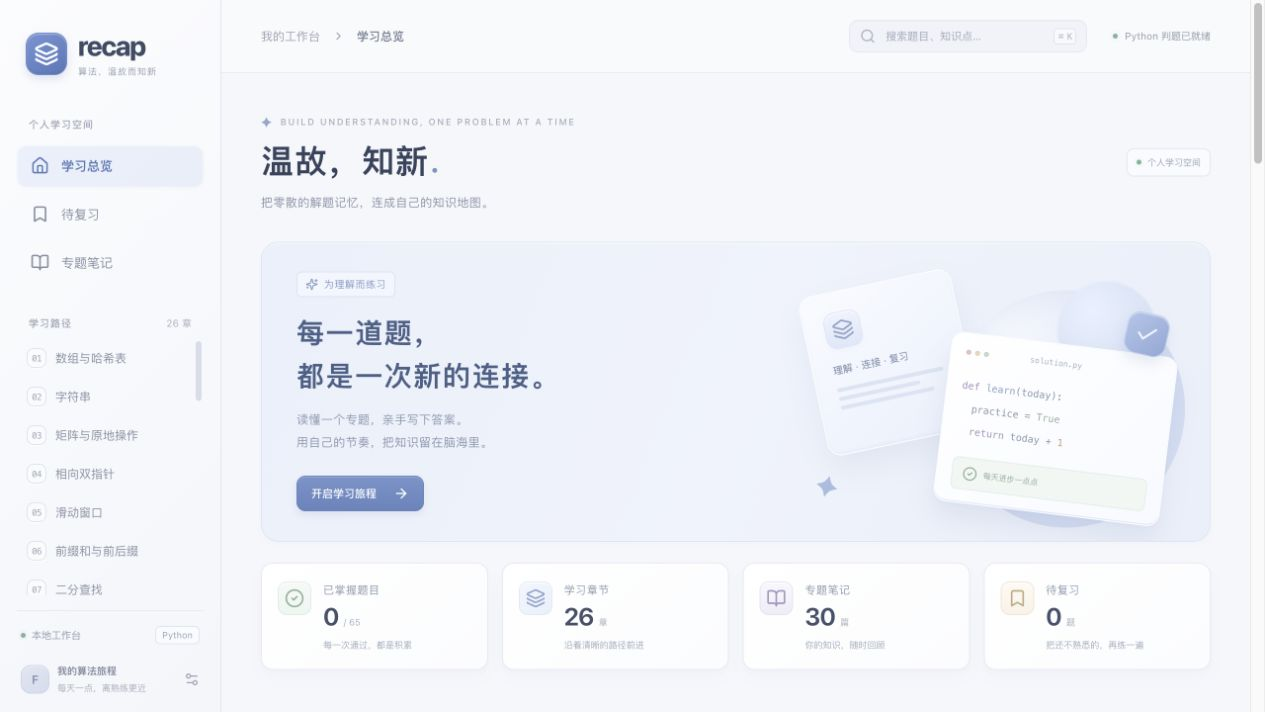
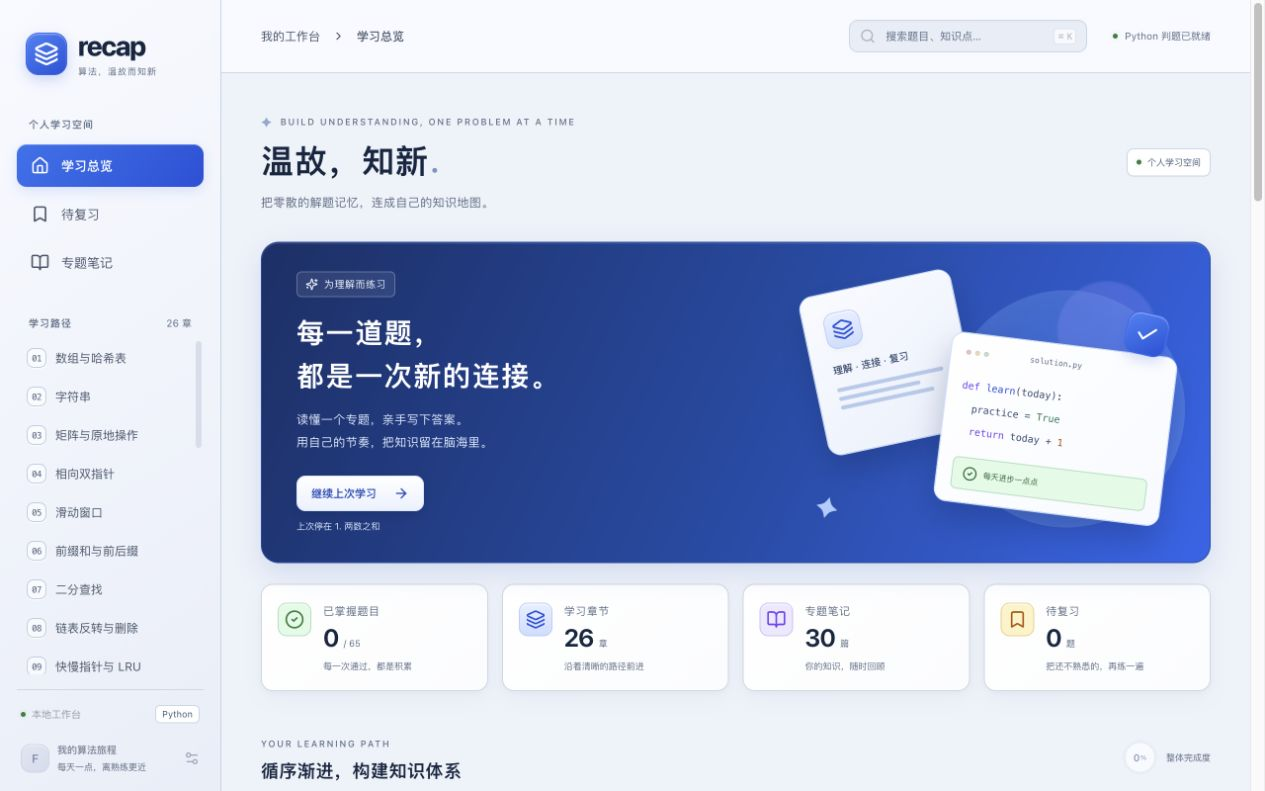
style: strengthen blue palette and improve text contrast

diff --git a/frontend/src/palette.css b/frontend/src/palette.css
@@ -1,0 +1,176 @@
+/* Vivid iOS palette: strong ink, distinct surfaces and a saturated blue anchor. */
+:root {
+  color: #25354b;
+  background: #edf2f9;
+  --blue: #2563eb;
+  --blue-dark: #1d4ed8;
+  --muted: #64748b;
+  --border: #cdd7e5;
+  --shadow: 0 2px 5px #18335708, 0 8px 20px #18335709;
+}
+.sidebar {
+  background: linear-gradient(145deg, #f8faff, #e8eef8);
+  border-right-color: #c7d3e5;
+}
+.brand-mark, .floating-check {
+  background: linear-gradient(145deg, #3b82f6, #1d4ed8);
+  border-color: #2563eb;
+  color: #fff;
+  box-shadow: 0 5px 13px #1d4ed833, inset 0 1px 1px #ffffff70;
+}
+.brand-name, .page-heading h1, .section-heading h2, .chapter-heading h1,
+.chapter-card h3, .problem-heading h1, .note-article-heading h2,
+.solution-content h2, .history-content h2, .stat-value, .empty h3 {
+  color: #142641;
+}
+.primary-nav > button, .chapter-nav > button, .note-toc button,
+.workspace-tabs > button, .result-tabs > button, .filter-tabs button,
+.icon-button, .editor-tools .icon-button, .workspace-header .back-link,
+.workspace-current, .topbar-breadcrumb, .topbar-breadcrumb strong {
+  color: #475569;
+}
+.primary-nav > button.active {
+  background: linear-gradient(130deg, #2870ee, #1d4ed8);
+  color: #fff;
+  box-shadow: 0 4px 12px #2563eb26, inset 0 1px #ffffff35;
+}
+.primary-nav > button.active b { background: #ffffff26; color: #fff; border-color: #ffffff40; }
+.primary-nav > button:hover:not(.active), .chapter-nav > button:hover,
+.note-toc button:hover, .icon-button:hover { background: #dce8fb; color: #1d4ed8; }
+.chapter-nav > button.active, .note-toc button.active {
+  background: #dbeafe;
+  color: #1746b4;
+  box-shadow: inset 3px 0 #2563eb;
+}
+.chapter-dot { color: #52647f; border-color: #bfcee3; background: #fff9; }
+.chapter-dot.done, .status-dot { background: #15803d; }
+.brand-name > span, .sidebar-label, .chapter-label > span, .user-info > span,
+.page-heading p, .eyebrow, .chapter-number, .chapter-card > p,
+.chapter-card-bottom, .stat-label, .stat-detail, .stat-value small,
+.topbar-python, .path-summary, .note-source, .chapter-source,
+.problem-footnote, .input-help, .editor-filename, .language-select,
+.editor-status, .editor-status > button, .local-test-label, .result-note,
+.case-value > span, .example-values > span, .custom-input > p,
+.input-caption, .solution-reminder, .submission-summary small,
+.reading-links > p, .reading-links summary, .reading-links summary > span,
+.empty p, .page-footer, .result-placeholder > p, .execution-heading > span {
+  color: #5a6c84;
+}
+.topbar, .workspace-header { background: #f8faff; border-bottom-color: #cdd7e5; }
+.search-box { background: #e6edf7; border-color: #cbd7e8; }
+.search-box input { color: #263d5d; }
+.search-box input::placeholder { color: #5f7089; }
+.search-box:focus-within { border-color: #2563eb; box-shadow: 0 0 0 3px #2563eb18; }
+.quiet-chip, .keycap { color: #3e5473; background: #fff; border-color: #c9d6e8; }
+.welcome-card {
+  background: linear-gradient(115deg, #142f67 0%, #174aa8 55%, #2563eb 100%);
+  border-color: #1746a2;
+  box-shadow: 0 10px 28px #174aa826, inset 0 1px #ffffff24;
+}
+.welcome-copy h2 { color: #fff; font-weight: 650; }
+.welcome-copy p, .resume-caption { color: #dceaff; }
+.welcome-copy .pill { background: #ffffff14; border-color: #ffffff40; color: #eff6ff; }
+.button.primary {
+  background: linear-gradient(#2f78f5, #1d4ed8);
+  color: #fff;
+  border-color: #1d4ed8;
+  box-shadow: 0 4px 10px #2563eb30, inset 0 1px #ffffff40;
+}
+.button.primary:hover { background: linear-gradient(#2563eb, #163fae); box-shadow: 0 5px 14px #1d4ed840; }
+.welcome-copy .button.primary {
+  background: linear-gradient(#fff, #eaf1ff);
+  color: #1746b4;
+  border-color: #d7e6ff;
+  box-shadow: 0 4px 12px #071d4938, inset 0 1px white;
+  font-weight: 650;
+}
+.welcome-copy .button.primary:hover { background: #fff; }
+.button.secondary { color: #334b6d; border-color: #b9c9df; background: linear-gradient(#fff, #edf3fc); }
+.button.secondary:hover { background: #dce8fb; border-color: #8eabd5; }
+button:disabled { opacity: .6; }
+.stat-card:disabled { opacity: 1; }
+.stat-card, .chapter-card, .panel, .workspace-panel { border-color: #ccd7e6; }
+.chapter-card:hover { border-color: #5e94ef; box-shadow: 0 6px 20px #2563eb15; }
+.chapter-card-bottom .progress-label { color: #52647e; background: #e8eef7; }
+.chapter-card-bottom .progress-label.started { color: #166534; background: #dcfce7; }
+.filter-tabs { border-bottom-color: #cbd5e1; }
+.filter-tabs button.active { color: #1746b4; background: #dbeafe; box-shadow: inset 0 1px white, 0 1px 3px #1746b418; }
+.thin-progress > i { background: #2563eb; }
+.stat-icon, .icon-tile, .mini-icon { color: #1d4ed8; background: linear-gradient(#e6efff, #cdddff); border-color: #b7cdf5; }
+.stat-icon.green, .icon-tile.green { color: #15803d; background: #dcfce7; border-color: #a9dfbd; }
+.stat-icon.purple, .icon-tile.purple { color: #7c3aed; background: #ede9fe; border-color: #d0bff4; }
+.stat-icon.orange, .icon-tile.orange { color: #b45309; background: #fef3c7; border-color: #eed08a; }
+.icon-tile.pink { color: #be185d; background: #fce7f3; border-color: #edb4d3; }
+.icon-tile.teal { color: #0f766e; background: #ccfbf1; border-color: #91d5ca; }
+.floating-note, .floating-code { border-color: #c9defc; box-shadow: 0 16px 30px #061e4a40, inset 0 1px white; }
+.floating-note strong, .floating-code code { color: #334b70; }
+.code-top > b { color: #5d6d87; }
+.mini-lines > i { background: #b2c9eb; }
+.purple-text { color: #7c3aed; }
+.blue-text { color: #1d4ed8; }
+.green-text { color: #047857; }
+.orange-text { color: #b45309; }
+.code-success { color: #166534; background: #dcfce7; border-color: #a9dfbd; }
+.art-star { color: #a9cdff; }
+.orb-one { background: #60a5fa40; }
+.orb-two { background: #818cf84d; }
+.chapter-banner, .chapter-tip { border-color: #bed1ee; background: #e4edfc; }
+.chapter-tip p, .problem-title, .problem-title > span { color: #334766; }
+.table-head { color: #52647e; background: #eaf0f9; border-color: #d1dceb; }
+.problem-row { border-color: #dfe6f0; }
+.tag { color: #38557f; background: #e7eef9; border-color: #cddbef; }
+.difficulty.easy { color: #166534; background: #dcfce7; }
+.difficulty.medium { color: #92400e; background: #fef3c7; }
+.difficulty.hard { color: #b91c1c; background: #fee2e2; }
+.accepted-label { color: #15803d !important; }
+.failed-label, .inline-error { color: #b91c1c; }
+.problem-status.accepted, .submission-icon.accepted { color: #15803d; }
+.review-button.is-marked { color: #92400e; background: #fef3c7; border-color: #e7c66f; }
+.markdown, .problem-description > .markdown, .constraints .markdown { color: #334155; }
+.markdown h1, .markdown h2, .markdown h3, .markdown h4, .markdown strong { color: #172d4b; }
+.markdown a, .reading-link-row > a { color: #1d4ed8; }
+.markdown blockquote { color: #345177; background: #eaf2ff; border-color: #3b82f6; }
+.markdown code { color: #264873; background: #e7eef9; border-color: #cedbf0; }
+.markdown pre, .example-values, .case-value > pre { background: #f0f4fa; border-color: #d2ddec; }
+.markdown pre code, .example-values > pre, .case-value > pre { color: #253b5c; }
+.markdown th { color: #263e62; background: #e4ecf8; }
+.markdown th, .markdown td { border-color: #cad7e8; }
+.note-toc, .note-article-heading, .reading-links, .reading-links > details { border-color: #cdd9e9; }
+.reading-link-row > .reading-only { color: #52647e; background: #e6edf7; }
+.reading-link-row > .local-exercise { color: #166534; background: #dcfce7; }
+.workspace-tabs, .editor-toolbar, .result-tabs { background: linear-gradient(#f8faff, #eaf0f9); border-color: #cad7e8; }
+.workspace-tabs > button.active, .result-tabs > button.active { color: #1d4ed8; font-weight: 650; }
+.workspace-tabs > button.active:after, .result-tabs > button.active:after { background: #2563eb; }
+.editor-tools .icon-button:hover { background: #dbeafe; color: #1d4ed8; }
+.python-icon { color: #a16207; }
+.editor-status, .editor-status > button { color: #52647e; }
+.editor-status { background: #f4f7fc; border-color: #d5e0ef; }
+.editor-status > button.save-failed, .judge-warning { color: #92400e; }
+.result-placeholder > strong, .toggle-label { color: #334b6b; }
+.terminal-icon { color: #2563eb; background: #e3edff; border-color: #bfd3f4; }
+.result-count.success { color: #166534; background: #dcfce7; }
+.case-tabs > button { color: #4b6080; background: #eaf0f9; border-color: #d4dfee; }
+.case-tabs > button.active { color: #1746b4; background: #dbeafe; border-color: #93b4ed; }
+.case-tabs > button.pass > span { background: #15803d; }
+.case-tabs > button.active.fail { color: #b91c1c; background: #fee2e2; border-color: #efaaaa; }
+.case-value > pre.value-error { color: #b91c1c; background: #fff1f2; border-color: #efbfc4; }
+.custom-input > textarea { color: #263e62; background: #f0f4fa; border-color: #b9cce6; }
+.custom-input > textarea:focus { border-color: #2563eb; outline-color: #2563eb; }
+.split-handle:hover, .split-handle:focus-visible { background: #c5d9fa; }
+.split-handle > i { background: #8499b8; }
+.chapter-dot.done { color: #fff; border-color: #15803d; }
+.chapter-heading p, .chapter-overview, .progress-ring > span,
+.progress-ring small, .content-tabs > button, .submission-score,
+.small-label, .loading-block, .app-loading { color: #52647e; }
+.chapter-tip strong { color: #1d4ed8; }
+.content-tabs { border-color: #cbd7e8; }
+.content-tabs > button.active { color: #1d4ed8; font-weight: 650; }
+.content-tabs > button.active:after { background: #2563eb; }
+.content-tabs > button > span { color: #38557f; background: #e1eafa; }
+.review-button { color: #405779; }
+.editor-status .status-dot { background: #15803d; }
+.result-count { color: #b91c1c; background: #fee2e2; }
+.result-count.success { color: #166534; background: #dcfce7; }
+.submission-summary strong, .submission-icon { color: #b91c1c; }
+.error-box { color: #991b1b; background: #fff1f2; border-color: #efb6bf; }
+.inline-error { border-color: #efb6bf; }

diff --git a/frontend/src/CodeEditor.tsx b/frontend/src/CodeEditor.tsx
@@ -9,19 +9,19 @@ monaco.editor.defineTheme("recap-light", {
   base: "vs",
   inherit: true,
   rules: [
-    { token: "comment", foreground: "9a9eb0", fontStyle: "italic" },
-    { token: "keyword", foreground: "8c58ad" },
-    { token: "string", foreground: "4d8b77" },
-    { token: "number", foreground: "b57845" },
+    { token: "comment", foreground: "62748c", fontStyle: "italic" },
+    { token: "keyword", foreground: "7c3aed" },
+    { token: "string", foreground: "047857" },
+    { token: "number", foreground: "b45309" },
   ],
   colors: {
     "editor.background": "#ffffff",
-    "editor.foreground": "#374159",
-    "editorLineNumber.foreground": "#bbc2d2",
-    "editorLineNumber.activeForeground": "#6b7794",
-    "editor.lineHighlightBackground": "#f5f7fc",
-    "editor.selectionBackground": "#dce6fb",
-    "editorIndentGuide.background1": "#edf0f6",
+    "editor.foreground": "#243654",
+    "editorLineNumber.foreground": "#788ba8",
+    "editorLineNumber.activeForeground": "#1d4ed8",
+    "editor.lineHighlightBackground": "#edf3ff",
+    "editor.selectionBackground": "#c7dcff",
+    "editorIndentGuide.background1": "#d6e1f2",
   },
 });
 export default function CodeEditor({

diff --git a/frontend/src/main.tsx b/frontend/src/main.tsx
@@ -2,6 +2,7 @@ import React from "react";
 import ReactDOM from "react-dom/client";
 import App from "./App";
 import "./style.css";
+import "./palette.css";
 import "katex/dist/katex.min.css";
 ReactDOM.createRoot(document.getElementById("root")!).render(
   <React.StrictMode>

diff --git a/docs/VERIFICATION.md b/docs/VERIFICATION.md
@@ -62,3 +62,7 @@ npm --prefix frontend audit --omit=dev
 - 停止后立即重启、启动失败清理及端口占用处理。
 
 项目定位为个人本机练习；“通过”表示通过项目自建测试，不是 LeetCode 官方完整测试。容器隔离与资源限制已实测，但本项目没有多人鉴权与公开服务运维设计。
+
+## 配色更新（2026-10-19）
+
+采用深蓝主视觉、饱和蓝色交互、深色正文与明确的成功/失败色；保留浅色卡片和拟物阴影。已检查桌面总览、窄屏总览、分屏编辑器及真实提交成功状态，构建通过。截图已更新。样式和 Monaco 颜色独立维护在 `frontend/src/palette.css` 与编辑器主题中。

diff --git a/README.md b/README.md
@@ -4,7 +4,7 @@
 
 ![学习总览](docs/screenshots/overview.jpg)
 
-做题页采用左右分屏：左侧题目、笔记、题解与提交记录，右侧 Python 编辑器和测试结果。界面采用浅色 iOS 风格与柔和拟物细节。
+做题页采用左右分屏：左侧题目、笔记、题解与提交记录，右侧 Python 编辑器和测试结果。界面采用 iOS 风格与拟物细节，以深蓝主视觉、亮蓝交互和深色正文建立清晰层次。
 
 ## Quickstart
 
